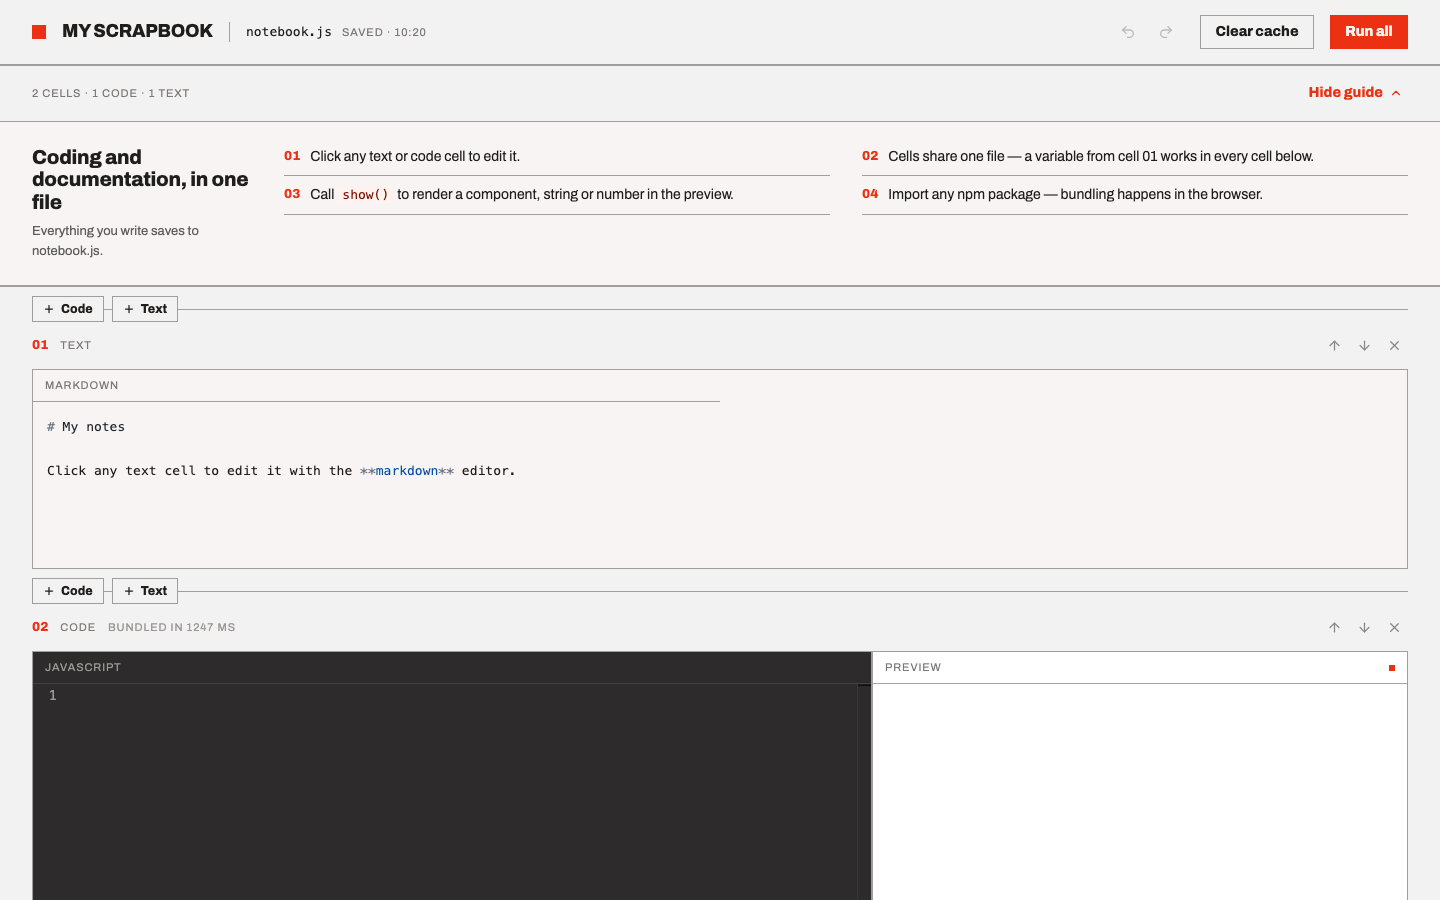
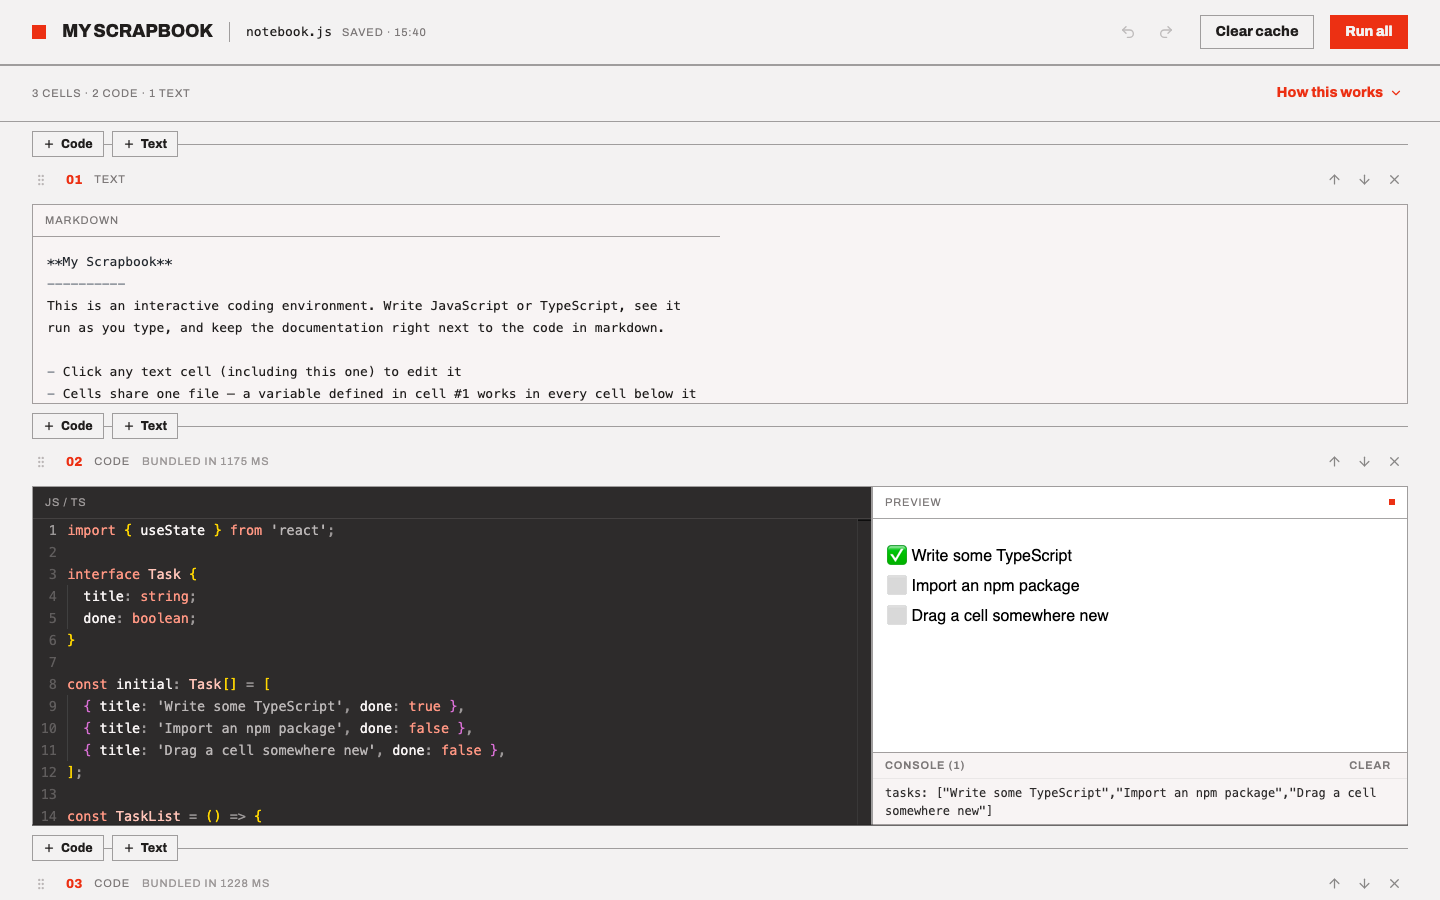
Refresh README examples and screenshots for the current feature set
- The sample explainer was written for the 2.x-era app: 'Javascript'
  only, a long-standing typo ('Prettier will its thing'), and no
  mention of half the current features. Rewritten to cover
  TypeScript, the console panel, offline packages, and
  drag-to-reorder.
- The 60-line inline-styles counter sample spent most of its length
  on hover-state CSS objects. Replaced with samples where each line
  demonstrates a capability: a TypeScript task list (interface, typed
  callbacks, console.log of an array landing in the console panel,
  interactive show() component) and an axios + bulma cell fetching
  and rendering live data (npm imports including CSS, promise flow,
  cumulative console output). The cli README's npm-page example gets
  the TypeScript sample too.
- blank.png, editing.png, and sample.png regenerated with Playwright
  at the original 1440-wide viewport against the current UI: JS/TS
  labels, grip handles, guide item 05, and populated console panels
  all visible. notebook-file.png is still accurate and kept. Capture
  note: full-page stitched screenshots leave the sandboxed preview
  iframes blank, so sample.png uses a full-height viewport instead.
- sample.png alt text updated (no longer claims a counter).

Every sample was verified running in the production build before
capture — the screenshots are the verification.

diff --git a/README.md b/README.md
@@ -96,93 +96,88 @@ npx my-scrapbook export mynotes.js -o docs/mynotes.md
 ## Markdown sample text for the text editor that contains an "Explainer".
 
 ```
-**My Scrapbook** 
+**My Scrapbook**
 ----------
-This is an interactive coding environment. You can write Javascript, see it executed, and write comprehensive documentation using markdown. 
+This is an interactive coding environment. Write JavaScript or TypeScript, see it run as you type, and keep the documentation right next to the code in markdown.
 
-- Click any text cell (including this one) to edit it 
-- The code in each code editor is joined into one file. If you define a variable in cell #1, you can refer to it in any of the following cells!
-- Click the **Format** button in any code cell, and Prettier will its thing to your code!
-- You can show any React component, string, number, or anything else by calling the `show` function. This is a function built into this environment. Call show multiple times to show multiple values
-- Re-order or delete cells using the buttons on the top right
-- Add new cells with the **+ Code** / **+ Text** buttons between cells
+- Click any text cell (including this one) to edit it
+- Cells share one file — a variable defined in cell #1 works in every cell below it
+- Call the built-in `show()` with a React component, string, number, or object to render it in the preview
+- `console.log` output shows up in a console panel under the preview
+- Import any npm package — bundling happens right in the browser, and packages you've used keep working offline
+- Click **Format** in any code cell and Prettier tidies it up
+- Reorder cells with the grip handle (or the arrows), and undo any of it with Ctrl/Cmd+Z
 
-All of your changes get saved to the file you opened My Scrapbook with. So if you ran `npx my-scrapbook serve`, all of the text and code you write will be saved to the `notebook.js` file.
-
+Everything you write saves to the file you opened — with a bare `npx my-scrapbook`, that's `notebook.js`.
 ```
 
 ## Code samples for the code editor.
 
-```
+TypeScript, React, and the console panel — types are stripped when the code runs, and `console.log` lands under the preview:
+
+```tsx
 import { useState } from 'react';
 
-const buttonStyle = {
-  padding: '10px 20px',
-  fontSize: '16px',
-  borderRadius: '4px',
-  fontWeight: 600,
-  backgroundColor: '#007BFF',
-  color: '#ffffff',
-  transition: 'background-color 0.3s, transform 0.3s, color 0.3s',
-  margin: '10px',
-};
+interface Task {
+  title: string;
+  done: boolean;
+}
 
-const hoverStyles = {
-  ...buttonStyle,
-  backgroundColor: '#0056b3',
-};
+const initial: Task[] = [
+  { title: 'Write some TypeScript', done: true },
+  { title: 'Import an npm package', done: false },
+  { title: 'Drag a cell somewhere new', done: false },
+];
 
-const countStyle = {
-  fontSize: '20px',
-  fontWeight: 'bold',
-   fontFamily: 'Arial, sans-serif',
-  color: '#333',
-  marginTop: '20px',
-  border: '1px solid #007BFF',
-  padding: '10px',
-  borderRadius: '4px',
-};
+const TaskList = () => {
+  const [tasks, setTasks] = useState(initial);
+  const toggle = (title: string) =>
+    setTasks(
+      tasks.map((t) => (t.title === title ? { ...t, done: !t.done } : t))
+    );
 
-const Counter = () => {
-  const [isAddHovered, setIsAddHovered] = useState(false); // for Add button
-  const [isResetHovered, setIsResetHovered] = useState(false); // for Reset button
-  const [count, setCount] = useState(0);
   return (
-    <div>
-      <button
-        style={isAddHovered ? hoverStyles : buttonStyle}
-        onMouseEnter={() => setIsAddHovered(true)}
-        onMouseLeave={() => setIsAddHovered(false)}
-        onClick={() => setCount(count + 1)}
-      >
-        Add to Count
-      </button>
-      <button
-        style={isResetHovered ? hoverStyles : buttonStyle}
-        onMouseEnter={() => setIsResetHovered(true)}
-        onMouseLeave={() => setIsResetHovered(false)}
-        onClick={() => setCount(0)}
-      >
-        Reset
-      </button>
-      <h3 style={countStyle}>Count: {count}</h3>
-    </div>
+    <ul style={{ listStyle: 'none', padding: 4, fontFamily: 'sans-serif' }}>
+      {tasks.map((t) => (
+        <li
+          key={t.title}
+          onClick={() => toggle(t.title)}
+          style={{ cursor: 'pointer', padding: 2 }}
+        >
+          {t.done ? '✅' : '⬜'} {t.title}
+        </li>
+      ))}
+    </ul>
   );
-}; // Display any variable or React Component by calling 'show'
-show(<Counter />);
+};
 
+console.log('tasks:', initial.map((t) => t.title));
+show(<TaskList />);
 ```
 
-```
+Any npm package works — including CSS. This fetches live data with axios and styles it with bulma:
+
+```jsx
 import axios from 'axios';
 import 'bulma/css/bulma.css';
 
-axios
-  .get('https://jsonplaceholder.typicode.com/users/1')
-  .then(({ data }) => show(data.name))
-  .catch(error => console.error('There was an error!', error));
+axios.get('https://jsonplaceholder.typicode.com/users').then(({ data }) => {
+  console.log('fetched', data.length, 'users');
+  show(
+    <div className="content m-4">
+      <h4>Team</h4>
+      <ul>
+        {data.slice(0, 4).map((user) => (
+          <li key={user.id}>
+            {user.name} — <em>{user.company.name}</em>
+          </li>
+        ))}
+      </ul>
+    </div>
+  );
+});
 ```
-![A notebook with markdown documentation and a React counter component rendered in the preview](docs/images/sample.png)
+![A notebook with markdown documentation, a TypeScript task-list component with console output, and an npm-powered cell rendering live data](docs/images/sample.png)
 
 ## Development
 

diff --git a/jbook/packages/cli/README.md b/jbook/packages/cli/README.md
@@ -94,22 +94,49 @@ npx my-scrapbook export mynotes.js -o docs/mynotes.md
 
 ## Example
 
-```js
+TypeScript, React, and the console panel — types are stripped when the code runs, and `console.log` lands in a panel under the preview:
+
+```tsx
 import { useState } from 'react';
 
-const Counter = () => {
-  const [count, setCount] = useState(0);
+interface Task {
+  title: string;
+  done: boolean;
+}
+
+const initial: Task[] = [
+  { title: 'Write some TypeScript', done: true },
+  { title: 'Import an npm package', done: false },
+  { title: 'Drag a cell somewhere new', done: false },
+];
+
+const TaskList = () => {
+  const [tasks, setTasks] = useState(initial);
+  const toggle = (title: string) =>
+    setTasks(
+      tasks.map((t) => (t.title === title ? { ...t, done: !t.done } : t))
+    );
+
   return (
-    <div>
-      <button onClick={() => setCount(count + 1)}>Click</button>
-      <h3>Count: {count}</h3>
-    </div>
+    <ul style={{ listStyle: 'none', padding: 4, fontFamily: 'sans-serif' }}>
+      {tasks.map((t) => (
+        <li
+          key={t.title}
+          onClick={() => toggle(t.title)}
+          style={{ cursor: 'pointer', padding: 2 }}
+        >
+          {t.done ? '✅' : '⬜'} {t.title}
+        </li>
+      ))}
+    </ul>
   );
-}; // Display any variable or React Component by calling 'show'
-show(<Counter />);
+};
+
+console.log('tasks:', initial.map((t) => t.title));
+show(<TaskList />);
 ```
 
-![A notebook with markdown documentation and a React counter component rendered in the preview](https://raw.githubusercontent.com/dannysarco/code-editor/live/docs/images/sample.png)
+![A notebook with markdown documentation, a TypeScript task-list component with console output, and an npm-powered cell rendering live data](https://raw.githubusercontent.com/dannysarco/code-editor/live/docs/images/sample.png)
 
 ## Source & development
 

diff --git a/CHANGELOG.md b/CHANGELOG.md
@@ -1,5 +1,10 @@
 # Changelog
 
+## Unreleased
+
+### Changed
+- **README examples and screenshots refreshed.** The sample explainer now describes the current feature set (TypeScript, the console panel, drag-to-reorder, offline packages) and loses a long-standing typo; the code samples are a TypeScript task-list component (interface + generics + `console.log`) and an axios + bulma cell that fetches and renders live data. Screenshots regenerated against the current UI — JS/TS labels, grip handles, and console panels included. Every sample was verified running in the app before being captured.
+
 ## 3.7.1 — 2026-08-02
 
 First release published by CI. No functional changes: the npm package README gains the CI and version badges, and the release itself carries the provenance attestation introduced below.
